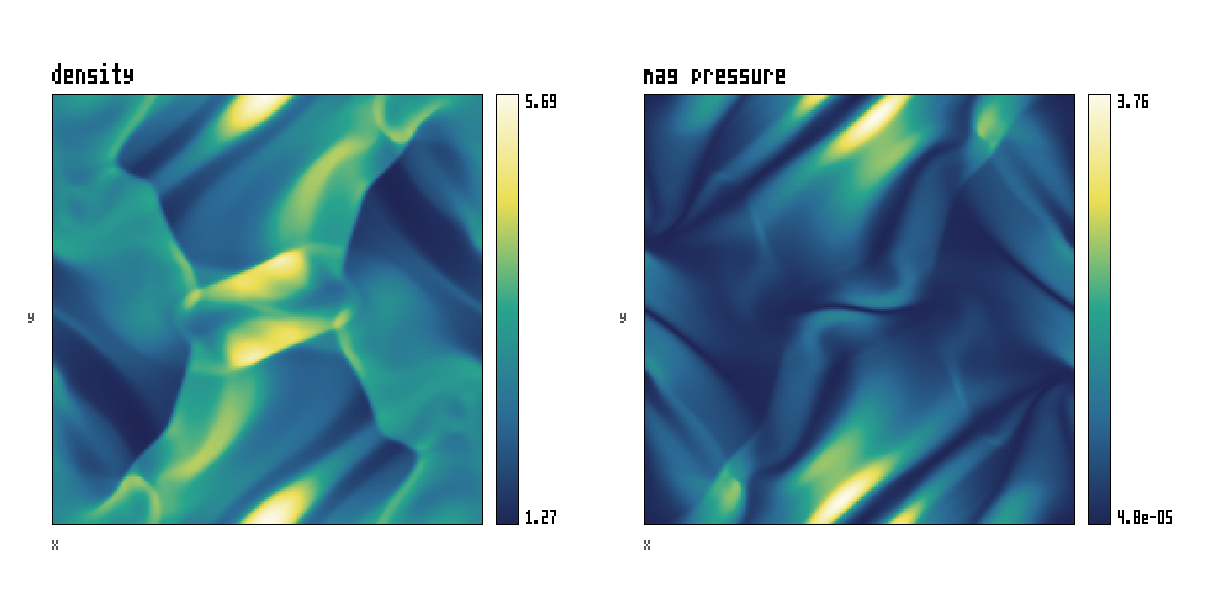
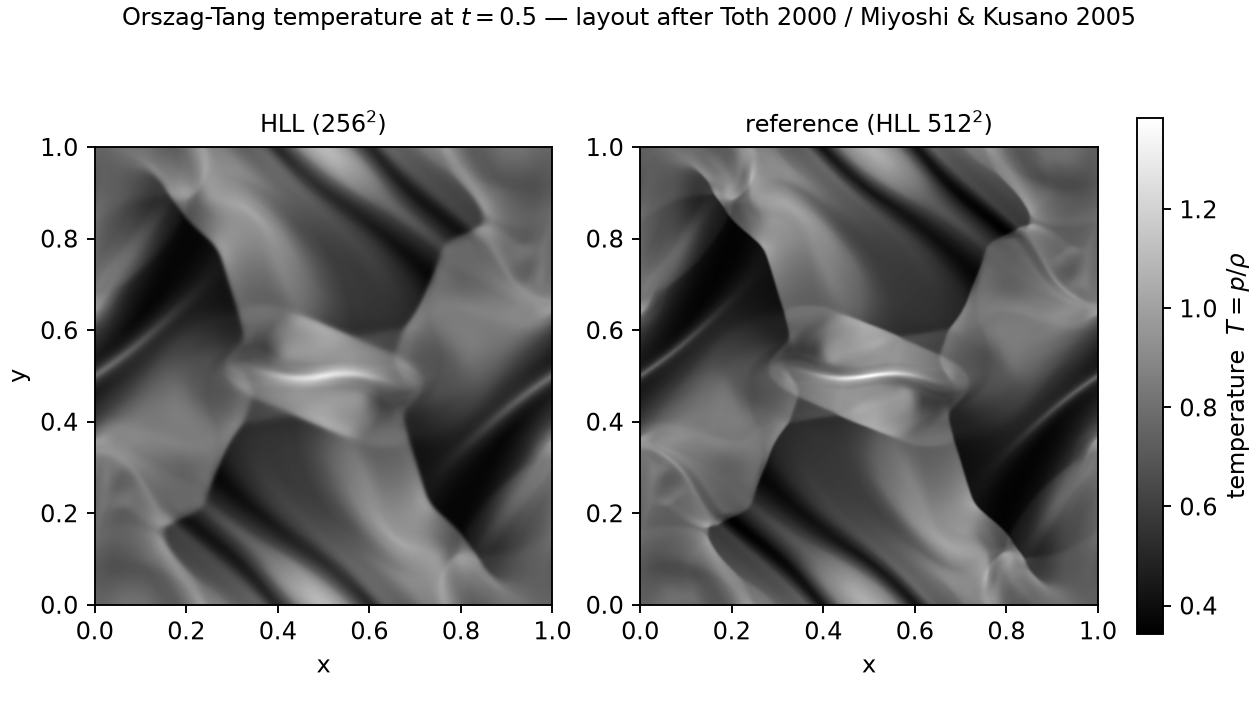
feat(figures): MK2005 paper-style Orszag-Tang/KH renderer

diff --git a/scripts/regression/mhd_paper_style_mk2005.py b/scripts/regression/mhd_paper_style_mk2005.py
@@ -1,0 +1,227 @@
+#!/usr/bin/env python3
+"""Render our Orszag-Tang results in the visual format of Miyoshi & Kusano 2005.
+
+Reproduces the layout of two figures from
+  T. Miyoshi & K. Kusano, J. Comput. Phys. 208 (2005) 315-344,
+so our HLL / HLLD solvers can be compared side-by-side against the paper:
+
+  Fig. 12  -> gray-scale temperature (T = p/rho) of the OT vortex, LEFT HALF of
+              the domain, panels: HLL | HLLD | high-res reference.
+  Fig. 13  -> 1D temperature cuts along two horizontal lines; the paper uses
+              y = 0.64*pi and y = pi on a [0, 2*pi]^2 domain. Our run is in the
+              Toth-2000 convention ([0,1]^2, t=0.5), so the same normalised
+              positions are y = 0.32 and y = 0.50.
+
+The reference is our 512^2 HLL run (same role the paper's high-res solution
+plays). Units are rationalised (rho0=gamma^2, p0=gamma, B0=1), so the
+comparison is of solver-to-solver structure, not absolute paper values.
+"""
+from __future__ import annotations
+
+import pathlib
+import sys
+
+import numpy as np
+import matplotlib
+
+matplotlib.use("Agg")
+import matplotlib.pyplot as plt
+
+ROOT = pathlib.Path(__file__).resolve().parents[2]
+sys.path.insert(0, str(ROOT / "scripts"))
+from io_helper import read_binary  # noqa: E402
+
+GAMMA = 5.0 / 3.0
+# Conserved-variable indices for ideal MHD (see mhd_paper_figures.py).
+RHO, MX, MY, MZ, BX, BY, BZ, E = range(8)
+
+W13 = ROOT / "experiments" / "week13"
+HLL_BIN = W13 / "solver_compare" / "ot_256_hll.bin"
+HLLD_BIN = W13 / "solver_compare" / "ot_256_hlld.bin"
+REF_BIN = W13 / "orszag_tang" / "ot_512_ref.bin"
+OUT_DIR = W13 / "solver_compare" / "figures"
+
+# Production single-result runs whose paper-style figures we overwrite in place.
+OT_BIN = W13 / "orszag_tang" / "ot_256.bin"
+OT_FIG_DIR = W13 / "orszag_tang" / "figures"
+KH_BIN = W13 / "kelvin_helmholtz" / "kh_256.bin"
+KH_FIG_DIR = W13 / "kelvin_helmholtz" / "figures"
+
+
+def temperature(path: pathlib.Path) -> tuple[np.ndarray, float, float]:
+    """Return (T[ny,nx], dx, dy) with T = p/rho for an ideal-MHD grid.bin."""
+    h, arr = read_binary(path)
+    a = arr.astype(np.float64)
+    rho = a[..., RHO]
+    vx = a[..., MX] / rho
+    vy = a[..., MY] / rho
+    vz = a[..., MZ] / rho
+    Bx, By, Bz = a[..., BX], a[..., BY], a[..., BZ]
+    kinetic = 0.5 * rho * (vx * vx + vy * vy + vz * vz)
+    magnetic = 0.5 * (Bx * Bx + By * By + Bz * Bz)
+    p = (GAMMA - 1.0) * (a[..., E] - kinetic - magnetic)
+    return p / rho, h.dx, h.dy
+
+
+def density(path: pathlib.Path) -> np.ndarray:
+    """Return rho[ny, nx] from an ideal-MHD grid.bin."""
+    _, arr = read_binary(path)
+    return arr.astype(np.float64)[..., RHO]
+
+
+def row_at(field: np.ndarray, y_frac: float) -> tuple[np.ndarray, np.ndarray]:
+    """Nearest cell-centred row at y = y_frac (domain length 1); returns (x, T)."""
+    ny, nx = field.shape
+    j = int(round(y_frac * ny - 0.5))
+    j = max(0, min(ny - 1, j))
+    x = (np.arange(nx) + 0.5) / nx
+    return x, field[j]
+
+
+def fig12(t_hll, t_hlld, t_ref) -> pathlib.Path:
+    """Gray-scale temperature, left half of domain: HLL | HLLD | reference."""
+    panels = [
+        ("HLL solver (256$^2$)", t_hll),
+        ("HLLD solver (256$^2$)", t_hlld),
+        ("reference (HLL 512$^2$)", t_ref),
+    ]
+    # Shared gray scale across panels for a fair visual comparison.
+    vmin = min(float(t.min()) for _, t in panels)
+    vmax = max(float(t.max()) for _, t in panels)
+
+    fig, axes = plt.subplots(1, 3, figsize=(9.0, 6.2), constrained_layout=True)
+    im = None
+    for ax, (title, t) in zip(axes, panels):
+        ny, nx = t.shape
+        half = t[:, : nx // 2]  # left half of the domain, as in the paper
+        im = ax.imshow(
+            half,
+            origin="lower",
+            cmap="gray",
+            vmin=vmin,
+            vmax=vmax,
+            extent=(0.0, 0.5, 0.0, 1.0),
+            aspect="equal",
+            interpolation="bilinear",
+        )
+        ax.set_title(title, fontsize=10)
+        ax.set_xlabel("x")
+        ax.set_xticks([0.0, 0.25, 0.5])
+    axes[0].set_ylabel("y")
+    fig.colorbar(im, ax=axes, shrink=0.62, label="temperature  $T = p/\\rho$", pad=0.02)
+    fig.suptitle(
+        "Orszag-Tang temperature at $t=0.5$ (left half) "
+        "— layout after Miyoshi & Kusano 2005, Fig. 12",
+        fontsize=10.5,
+    )
+    out = OUT_DIR / "ot_temperature_mk_fig12.png"
+    fig.savefig(out, dpi=170)
+    plt.close(fig)
+    return out
+
+
+def fig13(t_hll, t_hlld, t_ref) -> pathlib.Path:
+    """1D temperature cuts at y=0.32 (~0.64*pi) and y=0.50 (~pi)."""
+    cuts = [(0.32, "y = 0.32  (paper $y = 0.64\\pi$)"),
+            (0.50, "y = 0.50  (paper $y = \\pi$)")]
+    fig, axes = plt.subplots(1, 2, figsize=(11.0, 4.4), constrained_layout=True)
+    for ax, (yf, label) in zip(axes, cuts):
+        xr, tr = row_at(t_ref, yf)
+        ax.plot(xr, tr, "-", color="black", lw=1.1, label="reference (512$^2$)", zorder=1)
+        xh, th = row_at(t_hll, yf)
+        ax.plot(xh, th, "o", color="tab:blue", ms=2.6, mfc="none", mew=0.7,
+                label="HLL solver", zorder=2)
+        xd, td = row_at(t_hlld, yf)
+        ax.plot(xd, td, "x", color="tab:red", ms=3.0, mew=0.7,
+                label="HLLD solver", zorder=3)
+        ax.set_title(label, fontsize=10)
+        ax.set_xlabel("x")
+        ax.set_xlim(0.0, 1.0)
+        ax.grid(True, color="0.85", lw=0.5)
+    axes[0].set_ylabel("temperature  $T = p/\\rho$")
+    axes[0].legend(loc="best", fontsize=8, framealpha=0.9)
+    fig.suptitle(
+        "Orszag-Tang 1D temperature at $t=0.5$ "
+        "— layout after Miyoshi & Kusano 2005, Fig. 13",
+        fontsize=10.5,
+    )
+    out = OUT_DIR / "ot_temperature_mk_fig13.png"
+    fig.savefig(out, dpi=170)
+    plt.close(fig)
+    return out
+
+
+def ot_paper_style() -> pathlib.Path:
+    """Overwrite ot_paper_style.png: gray-scale temperature, full domain.
+
+    Two panels (256^2 production run | 512^2 reference) in the Toth-2000 /
+    Miyoshi-Kusano-2005 gray-scale temperature layout, replacing the old
+    colour density/mag-pressure heatmap.
+    """
+    t256, _, _ = temperature(OT_BIN)
+    tref, _, _ = temperature(REF_BIN)
+    vmin = min(float(t256.min()), float(tref.min()))
+    vmax = max(float(t256.max()), float(tref.max()))
+
+    fig, axes = plt.subplots(1, 2, figsize=(7.4, 4.2), constrained_layout=True)
+    im = None
+    for ax, (title, t) in zip(axes, (("HLL (256$^2$)", t256),
+                                     ("reference (HLL 512$^2$)", tref))):
+        im = ax.imshow(t, origin="lower", cmap="gray", vmin=vmin, vmax=vmax,
+                       extent=(0.0, 1.0, 0.0, 1.0), aspect="equal",
+                       interpolation="bilinear")
+        ax.set_title(title, fontsize=10)
+        ax.set_xlabel("x")
+    axes[0].set_ylabel("y")
+    fig.colorbar(im, ax=axes, shrink=0.78, label="temperature  $T = p/\\rho$", pad=0.02)
+    fig.suptitle("Orszag-Tang temperature at $t=0.5$ "
+                 "— layout after Toth 2000 / Miyoshi & Kusano 2005", fontsize=10)
+    out = OT_FIG_DIR / "ot_paper_style.png"
+    out.parent.mkdir(parents=True, exist_ok=True)
+    fig.savefig(out, dpi=170)
+    plt.close(fig)
+    return out
+
+
+def kh_paper_style() -> pathlib.Path:
+    """Overwrite kh_paper_style.png: density isolines, Dedner 2002 Fig. 8 style."""
+    rho = density(KH_BIN)
+    ny, nx = rho.shape
+    xc = (np.arange(nx) + 0.5) / nx
+    yc = (np.arange(ny) + 0.5) / ny
+    levels = np.linspace(float(rho.min()), float(rho.max()), 24)
+
+    fig, ax = plt.subplots(figsize=(5.2, 5.2), constrained_layout=True)
+    ax.contour(xc, yc, rho, levels=levels, colors="black", linewidths=0.6)
+    ax.set_aspect("equal")
+    ax.set_xlim(0.0, 1.0)
+    ax.set_ylim(0.0, 1.0)
+    ax.set_xlabel("x")
+    ax.set_ylabel("y")
+    ax.set_title("Kelvin-Helmholtz: isolines of $\\rho$ at $t=1.0$\n"
+                 "— layout after Dedner et al. 2002, Fig. 8", fontsize=9.5)
+    out = KH_FIG_DIR / "kh_paper_style.png"
+    out.parent.mkdir(parents=True, exist_ok=True)
+    fig.savefig(out, dpi=170)
+    plt.close(fig)
+    return out
+
+
+def main() -> None:
+    OUT_DIR.mkdir(parents=True, exist_ok=True)
+    t_hll, _, _ = temperature(HLL_BIN)
+    t_hlld, _, _ = temperature(HLLD_BIN)
+    t_ref, _, _ = temperature(REF_BIN)
+    for name, t in (("HLL", t_hll), ("HLLD", t_hlld), ("ref", t_ref)):
+        print(f"[mk2005] {name:5s} T: shape={t.shape} "
+              f"min={t.min():.4g} max={t.max():.4g} mean={t.mean():.4g}")
+    p12 = fig12(t_hll, t_hlld, t_ref)
+    p13 = fig13(t_hll, t_hlld, t_ref)
+    p_ot = ot_paper_style()
+    p_kh = kh_paper_style()
+    for p in (p12, p13, p_ot, p_kh):
+        print(f"[mk2005] wrote {p.relative_to(ROOT)}")
+
+
+if __name__ == "__main__":
+    main()

diff --git a/scripts/regression/mhd_orszag_tang_2d.py b/scripts/regression/mhd_orszag_tang_2d.py
@@ -36,8 +36,12 @@ PAPER_NOTE = (
 FIGURE_NAMES = (
     "ot_density_pressure.png",
     "ot_divb.png",
-    "ot_paper_style.png",
 )
+# ot_paper_style.png is rendered separately by
+# scripts/regression/mhd_paper_style_mk2005.py (matplotlib, gray-scale
+# temperature in the Toth-2000 / Miyoshi-Kusano-2005 layout) and is
+# intentionally NOT regenerated here so the regression path stays
+# matplotlib-free and does not clobber the paper-format figure.
 PAPER_SUMMARY = OUT / "paper_summary.md"
 
 
@@ -118,7 +122,6 @@ def write_validation_figures(header, arr) -> list[str]:
     prim = mhd_primitive(arr.astype(np.float64), GAMMA)
     density = prim["rho"]
     pressure = prim["p"]
-    magnetic_pressure = 0.5 * (prim["Bx"] ** 2 + prim["By"] ** 2 + prim["Bz"] ** 2)
     abs_divb = periodic_abs_divb(arr, header.dx, header.dy)
 
     paths = [
@@ -136,17 +139,6 @@ def write_validation_figures(header, arr) -> list[str]:
                 {"title": "abs divB log10", "field": abs_divb, "log10": True},
             ],
             columns=1,
-        ),
-        plot_heatmap_panels(
-            fig_dir / "ot_paper_style.png",
-            [
-                {"title": "density", "field": density},
-                {"title": "mag pressure", "field": magnetic_pressure},
-            ],
-            columns=2,
-            panel_size=430,
-            margin=52,
-            gap=76,
         ),
     ]
     return [path.relative_to(ROOT).as_posix() for path in paths]

diff --git a/scripts/regression/mhd_kh_2d.py b/scripts/regression/mhd_kh_2d.py
@@ -38,8 +38,11 @@ PAPER_NOTE = (
 FIGURE_NAMES = (
     "kh_density_bmag.png",
     "kh_divb.png",
-    "kh_paper_style.png",
 )
+# kh_paper_style.png is rendered separately by
+# scripts/regression/mhd_paper_style_mk2005.py (matplotlib, density isolines
+# in the Dedner-2002 Fig. 8 layout) and is intentionally NOT regenerated here
+# so the regression path stays matplotlib-free and does not clobber it.
 PAPER_SUMMARY = OUT / "paper_summary.md"
 
 
@@ -137,17 +140,6 @@ def write_validation_figures(header, arr) -> list[str]:
                 {"title": "abs divB log10", "field": abs_divb, "log10": True},
             ],
             columns=1,
-        ),
-        plot_heatmap_panels(
-            fig_dir / "kh_paper_style.png",
-            [
-                {"title": "density", "field": density},
-                {"title": "Bmag", "field": bmag},
-            ],
-            columns=2,
-            panel_size=430,
-            margin=52,
-            gap=76,
         ),
     ]
     return [path.relative_to(ROOT).as_posix() for path in paths]

diff --git a/scripts/regression/README.md b/scripts/regression/README.md
@@ -9,6 +9,21 @@ This directory contains validation scripts and scalar summary generators.
 - `convergence.py`: convergence helper for exact/reference comparisons.
 - `verify_sod.py`, `verify_toro.py`: exact-solution validation helpers.
 
+## Report 2 MHD Validation
+
+- `_mhd_harness.py`: shared Week 13 MHD subprocess, metadata, binary-read, and
+  scalar-helper layer used by the 2D validation drivers.
+- `mhd_orszag_tang_2d.py`, `mhd_kh_2d.py`: HLL production validation/figure
+  drivers for the Week 13 2D MHD benchmarks.
+- `mhd_solver_compare_2d.py`: HLL-vs-HLLD Orszag-Tang diagnostic used for the
+  Week 13 deferred-HLLD decision; do not treat HLLD as the production solver
+  unless a later summary records a new decision.
+- `mhd_hlld_glm_sweep.py`, `mhd_hlld_diagnostics.py`: local HLLD diagnostics,
+  not production validation.
+- `mhd_paper_style_mk2005.py`: optional matplotlib renderer for paper-style
+  Week 13 figures; it consumes existing Week 13 binary grids and intentionally
+  stays separate from the numpy-only validation drivers.
+
 ## Compatibility / Provenance
 
 - `float_regression_report.py`: still useful and tested, but tied to the older
